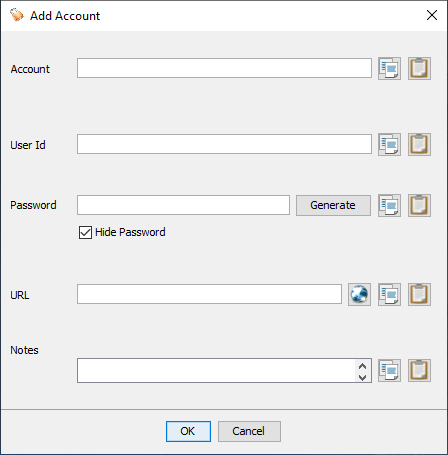
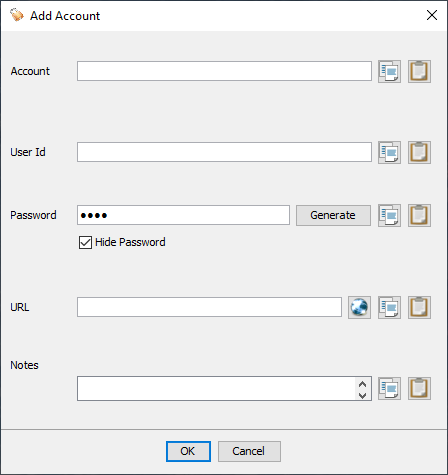
Updated AddAccount BB

diff --git a/naturalnets/environments/password_manager_app/window_pages/account_window_pages/add_account.py b/naturalnets/environments/password_manager_app/window_pages/account_window_pages/add_account.py
@@ -2,7 +2,7 @@ import os
 import cv2
 import numpy as np
 
-from naturalnets.environments.gui_app.constants import IMAGES_PATH
+from naturalnets.environments.password_manager_app.constants import IMAGES_PATH
 from naturalnets.environments.password_manager_app.bounding_box import BoundingBox
 from naturalnets.environments.password_manager_app.page import Page
 from naturalnets.environments.password_manager_app.reward_element import RewardElement
@@ -16,38 +16,40 @@ class AddAccount(Page, RewardElement):
     """todo"""
 
     STATE_LEN = 2
-    IMG_PATH = os.path.join(IMAGES_PATH, "account_window/add_account_empty")
+    IMG_PATH = os.path.join(IMAGES_PATH, "account_window/add_account_empty.png")
 
     BOUNDING_BOX = BoundingBox(0, 0, 448, 448)
 
-    HIDE_PASSWORD_BB = BoundingBox(0, 0, 448, 448)
+    HIDE_PASSWORD_BB = BoundingBox(80, 210, 12, 13)
 
-    OK_BUTTON_BB = BoundingBox(0, 0, 448, 448)
-    CLOSE_BUTTON_BB = BoundingBox(0, 0, 448, 448)
-    GENERATE_BUTTON_BB = BoundingBox(0, 0, 448, 448)
-    LAUNCH_URL_BUTTON_BB = BoundingBox(0, 0, 448, 448)
+    OK_BUTTON_BB = BoundingBox(167, 415, 43, 20)
+    CLOSE_BUTTON_BB = BoundingBox(219, 415, 62, 20)
+    GENERATE_BUTTON_BB = BoundingBox(277, 178, 94, 19)
+    LAUNCH_URL_BUTTON_BB = BoundingBox(349, 270, 23, 22)
 
-    COPY_ACCOUNT_BUTTON_BB = BoundingBox(0, 0, 448, 448)
-    COPY_USER_ID_BUTTON_BB = BoundingBox(0, 0, 448, 448)
-    COPY_PASSWORD_BUTTON_BB = BoundingBox(0, 0, 448, 448)
-    COPY_URL_BUTTON_BB = BoundingBox(0, 0, 448, 448)
-    COPY_NOTES_BUTTON_BB = BoundingBox(0, 0, 448, 448)
+    COPY_ACCOUNT_BUTTON_BB = BoundingBox(378, 33, 23, 22)
+    COPY_USER_ID_BUTTON_BB = BoundingBox(378, 114, 23, 22)
+    COPY_PASSWORD_BUTTON_BB = BoundingBox(378, 177, 23, 22)
+    COPY_URL_BUTTON_BB = BoundingBox(378, 269, 23, 22)
+    COPY_NOTES_BUTTON_BB = BoundingBox(378, 351, 23, 22)
 
-    PAST_ACCOUNT_BUTTON_BB = BoundingBox(0, 0, 448, 448)
-    PAST_USER_ID_BUTTON_BB = BoundingBox(0, 0, 448, 448)
-    PAST_PASSWORD_BUTTON_BB = BoundingBox(0, 0, 448, 448)
-    PAST_URL_BUTTON_BB = BoundingBox(0, 0, 448, 448)
-    PAST_NOTES_BUTTON_BB = BoundingBox(0, 0, 448, 448)
+    PAST_ACCOUNT_BUTTON_BB = BoundingBox(408, 33, 23, 22)
+    PAST_USER_ID_BUTTON_BB = BoundingBox(408, 114, 23, 22)
+    PAST_PASSWORD_BUTTON_BB = BoundingBox(408, 177, 23, 22)
+    PAST_URL_BUTTON_BB = BoundingBox(408, 269, 23, 22)
+    PAST_NOTES_BUTTON_BB = BoundingBox(408, 351, 23, 22)
 
-    ACCOUNT_DD_BB = BoundingBox(0, 0, 448, 448)
-    USER_ID_DD_BB = BoundingBox(0, 0, 448, 448)
-    PASSWORD_DD_BB = BoundingBox(0, 0, 448, 448)
-    URL_DD_BB = BoundingBox(0, 0, 448, 448)
-    NOTES_DD_BB = BoundingBox(0, 0, 448, 448)
+    ACCOUNT_DD_BB = BoundingBox(77, 35, 296, 19)
+    USER_ID_DD_BB = BoundingBox(77, 116, 296, 19)
+    PASSWORD_DD_BB = BoundingBox(77, 179, 213, 19)
+    URL_DD_BB = BoundingBox(77, 271, 265, 19)
+    NOTES_DD_BB = BoundingBox(77, 350, 296, 24)
 
-    def __init__(self):
+    def __init__(self, current_page: Page):
         Page.__init__(self, self.STATE_LEN, self.BOUNDING_BOX, self.IMG_PATH)
         RewardElement.__init__(self)
+
+        self.current_page = current_page
 
         self.name_one = DropdownItem("Hanna", "Hanna")
         self.name_two = DropdownItem("Klaus", "Klaus")
@@ -60,7 +62,7 @@ class AddAccount(Page, RewardElement):
                                                    self.name_three])
         
         self.password_one = DropdownItem("1234", "1234")
-        self.password_two = DropdownItem("qwertz", "qwertz")
+        self.password_two = DropdownItem("qwer", "qwer")
         self.password_three = DropdownItem("asdf", "asdf")
         self.dropdown_password = Dropdown(self.ACCOUNT_DD_BB, [self.password_one,
                                                    self.password_two,
@@ -93,24 +95,26 @@ class AddAccount(Page, RewardElement):
         self.add_widget(self.checkbox)
 
         self.buttons = [
-            Button(self.OK_BUTTON_BB, lambda: self.set_current_page(self.add_account)),
-            Button(self.CLOSE_BUTTON_BB, lambda: self.set_current_page(self.edit_account)),
-            Button(self.GENERATE_BUTTON_BB, lambda: self.set_current_page(self.confirm_delete_account)),
-            Button(self.COPY_ACCOUNT_BUTTON_BB, lambda: self.set_current_page(None)),
-            Button(self.COPY_PASSWORD_BUTTON_BB, lambda: self.set_current_page(None)),
-            Button(self.LAUNCH_URL_BUTTON_BB, lambda: self.set_current_page(None)),
-            Button(self.COPY_USER_ID_BUTTON_BB, lambda: self.set_current_page(self.options)),
-            Button(self.COPY_URL_BUTTON_BB, lambda: self.set_current_page(self.database)),
-            Button(self.COPY_NOTES_BUTTON_BB, lambda: self.set_current_page(self.account)),
-            Button(self.PAST_ACCOUNT_BUTTON_BB, lambda: self.set_current_page(self.help)),
-            Button(self.PAST_USER_ID_BUTTON_BB, lambda: self.set_current_page(None)),
-            Button(self.PAST_PASSWORD_BUTTON_BB, lambda: self.set_current_page(self.account)),
-            Button(self.PAST_URL_BUTTON_BB, lambda: self.set_current_page(self.help)),
-            Button(self.PAST_NOTES_BUTTON_BB, lambda: self.set_current_page(None)),
+            Button(self.OK_BUTTON_BB, lambda: self.ok()),
+            Button(self.CLOSE_BUTTON_BB, lambda: self.close()),
+            Button(self.GENERATE_BUTTON_BB, lambda: self.generate()),
+            Button(self.COPY_ACCOUNT_BUTTON_BB, lambda: self.copy('account')),
+            Button(self.COPY_PASSWORD_BUTTON_BB, lambda: self.copy('password')),
+            Button(self.LAUNCH_URL_BUTTON_BB, lambda: self.launch_url()),
+            Button(self.COPY_USER_ID_BUTTON_BB, lambda: self.copy('user_id')),
+            Button(self.COPY_URL_BUTTON_BB, lambda: self.copy('url')),
+            Button(self.COPY_NOTES_BUTTON_BB, lambda: self.copy('notes')),
+            Button(self.PAST_ACCOUNT_BUTTON_BB, lambda: self.past('account')),
+            Button(self.PAST_USER_ID_BUTTON_BB, lambda: self.past('password')),
+            Button(self.PAST_PASSWORD_BUTTON_BB, lambda: self.past('user_id')),
+            Button(self.PAST_URL_BUTTON_BB, lambda: self.past('url')),
+            Button(self.PAST_NOTES_BUTTON_BB, lambda: self.past('notes')),
         ]
 
-    def set_hide_password(self, is_checked):
+    def set_hide_password(self, is_checked: bool):
         "TODO"
+
+        print('hide_password')
 
 
     def render(self, img: np.ndarray):
@@ -124,17 +128,47 @@ class AddAccount(Page, RewardElement):
     def ok(self):
         "TODO"
 
+        self.current_page = None
+        print('ok')
+
     def close(self):
         "TODO"
 
-    def copy(self, fieldToCopy: str):
+        self.current_page = None
+        print('close')
+
+    def copy(self, dropdownToCopy: str):
         "TODO"
 
-    def past(self):
+        print('copy')
+
+    def past(self, dropdownToPast: str):
         "TODO"
+
+        print('past')
+
+    def generate(self):
+        "TODO"
+
+        print('generate')
+
+    def launch_url(self):
+        "TODO"
+
+        print('launch url')
 
     def handle_click(self, click_position: np.ndarray = None):
-        pass
+        for button in self.buttons:
+            if button.is_clicked_by(click_position):
+                # check if figure printer button is visible
+                button.handle_click(click_position)
+
+        for dropdown in self.dropdowns:
+            if dropdown.is_clicked_by(click_position):
+                dropdown.handle_click(click_position)
+
+        if self.checkbox.is_clicked_by(click_position):
+            self.checkbox.handle_click(click_position)
 
     @property
     def reward_template(self):

diff --git a/naturalnets/environments/password_manager_app/main_window.py b/naturalnets/environments/password_manager_app/main_window.py
@@ -64,9 +64,9 @@ class MainWindow(StateElement, Clickable, RewardElement):
         RewardElement.__init__(self)
 
         self._bounding_box = self.BOUNDING_BOX
+        self.current_page = None
 
-
-        self.add_account = AddAccount()
+        self.add_account = AddAccount(self.current_page)
         self.edit_account = EditAccount()
         self.view_account = ViewAccount()
         self.confirm_delete_account = ConfirmDeleteAccount()
@@ -85,8 +85,6 @@ class MainWindow(StateElement, Clickable, RewardElement):
                                   self.invalid_url, self.master_password,
                                   self.confirm_delete_account]
         # assert len(self.pages) == self.get_state_len()
-
-        self.current_page = None
 
         self.buttons = [
             Button(self.ADD_ACCOUNT_BUTTON_BB, lambda: self.set_current_page(self.add_account)),
@@ -180,19 +178,20 @@ class MainWindow(StateElement, Clickable, RewardElement):
     def current_page_blocks_click(self) -> bool:
         """Returns true if the current page blocks clicks, i.e. has a dropdown/popup open.
         """
-        # return self.current_page.is_dropdown_open() or self.current_page.is_popup_open()
+        return self.current_page.is_dropdown_open() or self.current_page.is_popup_open()
 
     def handle_click(self, click_position: np.ndarray) -> None:
         # Let the current page process the click, if the current page blocks clicks
         # to the main page (e.g. due to open dropdowns) or the click
         # is inside the bounding box of the current page.
-        if self.current_page_blocks_click():
+        if self.current_page is not None:
             self.current_page.handle_click(click_position)
             return
-        # Check if menu is clicked
-        if self.MENU_AREA_BB.is_point_inside(click_position):
-            self.handle_menu_click(click_position)
-            return
+        else:
+            # Check if menu is clicked
+            if self.MENU_AREA_BB.is_point_inside(click_position):
+                self.handle_menu_click(click_position)
+                return
 
     def is_dropdown_open(self):
         """Returns true if the current page has an opened dropdown.
@@ -219,7 +218,8 @@ class MainWindow(StateElement, Clickable, RewardElement):
         """
         to_render = cv2.imread(self.IMG_PATH)
         img = render_onto_bb(img, self.get_bb(), to_render)
-        # img = self.current_page.render(img)
+        if (self.current_page is not None):
+            img = self.current_page.render(img)
 
         return img
 
